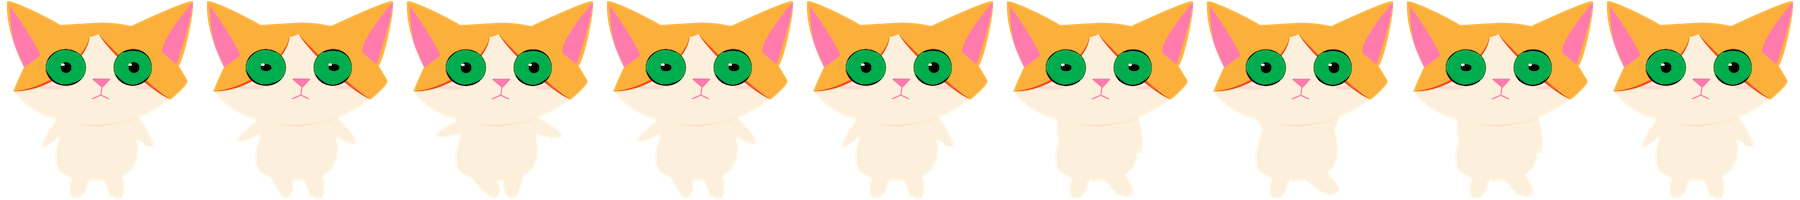
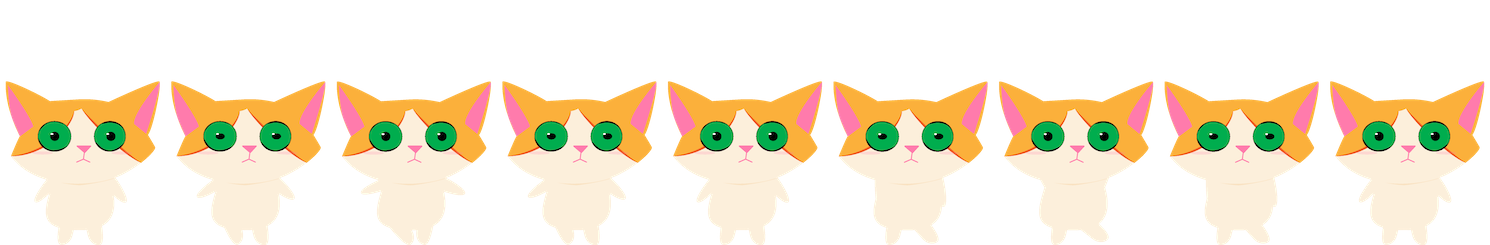
adjust cat size and levels

diff --git a/assets/js/catA.js b/assets/js/catA.js
@@ -7,8 +7,8 @@ class CatA {
   constructor() {
     this._walk = new Sprite({
       location: './assets/img/catA.png',
-      width: 200,
-      height: 200,
+      width: 165,
+      height: 245,
       frames: 9,
       update: () => this.update(),
       draw: () => this.draw(),
@@ -17,17 +17,17 @@ class CatA {
 
     this._jump = new Sprite({
       location: './assets/img/catAjump.png',
-      width: 200,
-      height: 320,
+      width: 165,
+      height: 245,
       frames: 7,
       update: () => this.update(),
       draw: () => this.draw(),
       speed: 1,
     });
 
-    this._y = canvas.height - this._walk.height - 50;
-
     this._currentImage = this._walk;
+
+    this._y = canvas.height - this._jump.height - 30;
 
     //this.jump_animation = new AnimationFrame(15, () => this.update());
     //this.loadImages();
@@ -120,11 +120,11 @@ class CatA {
 
   jumpUp() {
     this._currentImage = this._jump;
-    this._y -= 165;
+    this._y -= 171;
   }
 
   jumpDown() {
+    this._y += 171;
     this._currentImage = this._jump;
-    this._y += 165;
   }
 }

diff --git a/assets/js/levels.js b/assets/js/levels.js
@@ -1,21 +1,18 @@
 class Levels {
   _x = 0;
-  _y = 25;
-  _width = 8281 * 0.95;
-  _height = 600 * 0.95;
+  _y = 0;
+  _width = 4141;
+  _height = 600;
   _image;
-  _speedX = 5;
+  _speedX = 8;
 
   constructor() {
     this.loadImages();
-    console.log('background:constructor');
   }
 
   loadImages() {
     this._image = new Image();
     this._image.onload = () => {
-      console.log('background:loadimageeeee');
-
       this.draw();
     };
     this._image.src = './assets/img/levels.png';
@@ -26,9 +23,9 @@ class Levels {
   }
 
   move() {
-    //   if (this._x >=this._width) {
-
-    //   }
+    if (this._x <= -4141) {
+      this._x = 0;
+    }
     this._x += -this._speedX;
   }
 

diff --git a/assets/js/background.js b/assets/js/background.js
@@ -7,13 +7,13 @@ class Background {
 
   constructor() {
     this.loadImages();
-    console.log("background:constructor");
+
   }
 
   loadImages() {
     this._image = new Image();
     this._image.onload = () => {
-      console.log('background:loadimageeeee');
+     
 
       this.draw();
     };

diff --git a/assets/js/sprite.js b/assets/js/sprite.js
@@ -16,7 +16,7 @@ class Sprite {
     this.frames = options.frames;
     this.update = options.update;
     this.draw = options.draw;
-    this.speed=options.speed;
+    this.speed = options.speed;
 
     this.animation = new AnimationFrame(this.speed, () => this.update());
     this._loadImage();
